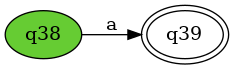
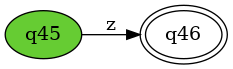
fix genFinalAutomaton and buildRegexTree

diff --git a/automaton_generation.py b/automaton_generation.py
@@ -425,9 +425,7 @@ def path(regex : str) -> automaton:
                 lastState = newState
         
         i += 1
-    global count
-    a.showVisualDFA("./a" + str(count) + ".png")
-    count += 1
+    
     return a
 
 #This function will build an tree informing which operations and in which onder we need to do, to construct the automaton
@@ -494,7 +492,8 @@ def buildRegexTree(regex : str, currNode : regexTree):
             while i < len(nextLevel):
                 nextLevel[i] = nextLevel[i][1:]
                 i += 1    
-               
+            
+            currNode.children.append(newUnionTree)
 
         for i in nextLevel:
             if len(i) != 0: 
@@ -528,9 +527,7 @@ def buildRegexTree(regex : str, currNode : regexTree):
                         newTree = regexTree([], [])
                         currNode.children.append(newTree)
                 else:
-                    if nextIsUnion:
-                        currNode.children.append(newUnionTree)
-                        
+                    if nextIsUnion:                        
                         newTree = regexTree([], [])
                         currNode.value.append(i)
                         newUnionTree.children.append(newTree)
@@ -576,38 +573,44 @@ def applyStar(a : automaton) -> automaton:
     return a
 
 def genFinalAutomaton(regexTree : regexTree) -> automaton:
+    # print(regexTree)
+    # print(regexTree.children)
+    # print()
     #The automaton will be built from botton up, following these rules:
     #Leaves of this tree will contain regex, that need to be given to 'path' function
     #An parent node will be formed by the union of his children, by using their automaton as input to 'unionProcess' function
-    #An parent node with '*' value will have only one child and informs that it need's to be applied an ()* operation in his child automaton
-    
+    #An parent node with '*' value will have only one child and informs that it need's to be applied an ()* operation in his child automaton    
     if len(regexTree.children) > 1 :
-        if regexTree.children[1].value[0] == '|':
-            unionList = []
+        concatList = []
 
-            for i in regexTree.children:
-                unionList.append(genFinalAutomaton(i.children[0]))
-            
-            unionResult = unionProcess(unionList)
-            
-            
-            return unionResult
-        else:
-            concatList = []
+        for i in regexTree.children:
+            concatList.append(genFinalAutomaton(i))
 
-            for i in regexTree.children:
-                concatList.append(genFinalAutomaton(i))
+        concatResult = concatList[0]
+        
+        i = 1
+        while i < len(concatList):
+            concatResult = concat(concatResult, concatList[i], concatList[i].findLastStates(concatResult.initialState, []))
+            i += 1
 
-            concatResult = concatList[0]
-            
-            i = 1
-            while i < len(concatList):
-                concatResult = concat(concatResult, concatList[i], concatList[i].findLastStates(concatResult.initialState, []))
-                i += 1
-
-            return concatResult
+        return concatResult
     
     if len(regexTree.children) > 0:
+        if regexTree.children[0].value[0] == '|':
+            regexTree = regexTree.children[0]
+            unionList = []
+            
+            for i in regexTree.children:
+                unionList.append(genFinalAutomaton(i))
+
+            print(unionList)
+            
+
+            
+            unionResult = unionProcess(unionList)
+        
+            return unionResult
+        
         if regexTree.children[0].value[0] == "*":
             #Go down to asterisc level
             regexTree = regexTree.children[0]
@@ -630,7 +633,7 @@ def genFinalAutomaton(regexTree : regexTree) -> automaton:
     return path(regexTree.value)
 
 test = "(((a)|(b))(cd))" #Criar função que falta, (concatenação)
-old = "((abd(ac c)*(a)*)|((bb((bc)*aa)*)(ad))|(ba)|((x)|(((ghi)|(kkkkkkk))*))|((p)|(z)))"
+old = "(((abd(ac c)*)(a)*)|((bb((bc)*aa)*)(ad))|(ba)|((x)|(((ghi)|(kkkkkkk))*))|((p)|(z)))"
 
 testTree = regexTree([], [])
 buildRegexTree(old, testTree)
